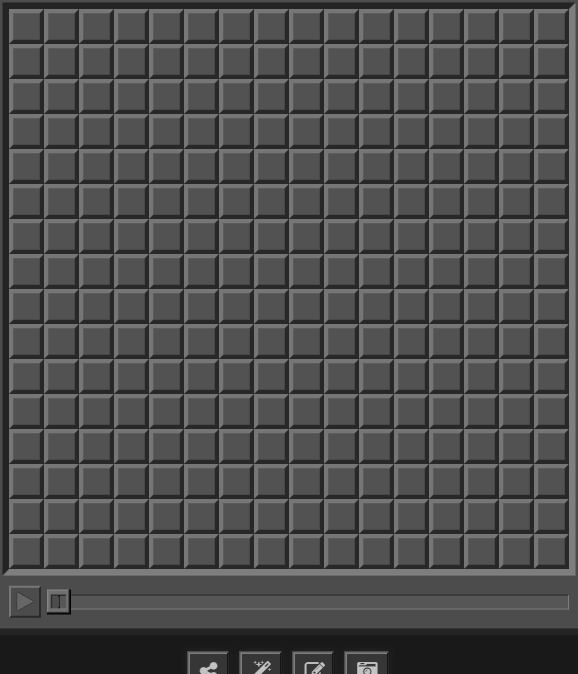
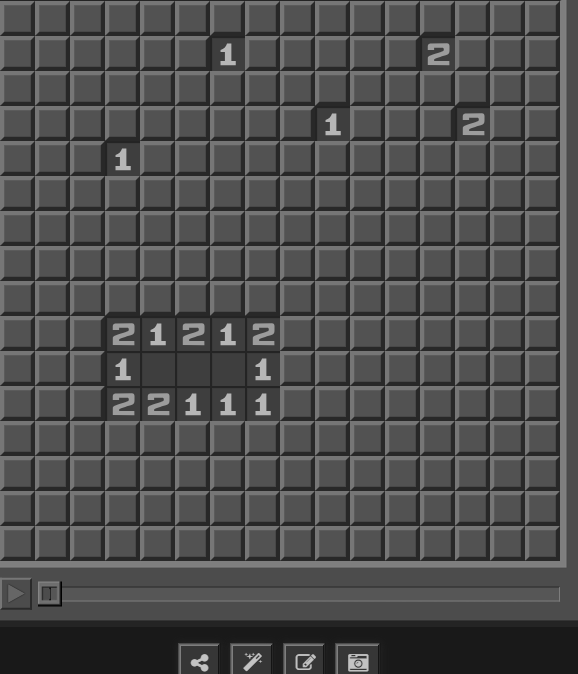
wip

diff --git a/solver.py b/solver.py
@@ -4,7 +4,7 @@ from pywinauto import Desktop
 import cv2
 import numpy as np
 
-top_left = (0,0)
+top_left = (610,450)
 top_right = (0,0)
 bottom_left = (0,0)
 bottom_right = (0,0)
@@ -41,8 +41,8 @@ def mouse_move(x, y):
     # Simulate mouse click at the center of the detected region
     pyautogui.moveTo(x, y, duration=0)  # Move mouse with a slight delay
     
-def mouse_click_random(top_left, bottom_right):
-    top_left = (top_left[0] - 9, top_left[1] - 100 - 6)
+def mouse_click_random():
+    global top_left
     print(top_left[0], top_left[1])
     for i in range(5):
         x_init = top_left[0] + 17.5
@@ -53,9 +53,8 @@ def mouse_click_random(top_left, bottom_right):
         x = random_between(x_init, x_end)
         y = random_between(y_start, y_end)
         print(x,y)
-        # Simulate mouse click at the center of the detected region
-        pyautogui.moveTo(x,y, duration=0)  # Move mouse with a slight delay
-        pyautogui.click()  # Perform left-click
+        pyautogui.moveTo(x,y, duration=0)
+        pyautogui.click()
         take_screenshot()
         reset_if_dead()
    
@@ -69,6 +68,7 @@ def random_between(a, b):
     return random.randint(a, b) 
         
 def template_matching():
+    global top_left
     screenshot = cv2.imread("screenshot.png", cv2.IMREAD_GRAYSCALE)
     template = cv2.imread("template_intermediate.png", cv2.IMREAD_GRAYSCALE)
 
@@ -82,19 +82,19 @@ def template_matching():
         min_val, max_val, min_loc, max_loc = cv2.minMaxLoc(result)
 
         # Extract the top-left corner of the matching region
-        top_left = max_loc
+        # top_left = max_loc
+        print(f"maxloc {max_loc}")
         h, w = template.shape  # Template dimensions
         bottom_right = (top_left[0] + w, top_left[1] + h)
 
         # Draw a rectangle around the detected area
         screenshot_with_box = cv2.cvtColor(screenshot, cv2.COLOR_GRAY2BGR)
         cv2.rectangle(screenshot_with_box, top_left, bottom_right, (0, 255, 0), 2)
-        top_left = (top_left[0] + 18, top_left[1] + 114)
-        top_right = (top_left[0] + 18 + 560, top_left[1] + 114)
-        bottom_left = (top_left[0] + 18, top_left[1] + 114 + 560)
+        # top_left = (top_left[0] + 18, top_left[1] + 114)
+        print(f"Top left: {top_left}")
         bottom_right = (top_left[0] + 18 + 560, top_left[1] + 114 + 560)
         
-        mouse_click_random((top_left[0] + 18, top_left[1] + 114), (top_left[0] + 18 + 560, top_left[1] + 114 + 560))
+        mouse_click_random()
         # Crop the detected region
         cropped_region = screenshot[top_left[1]:bottom_right[1], top_left[0]:bottom_right[0]]
 
@@ -141,6 +141,176 @@ def reset_if_dead():
             return True
         return False
 
-take_screenshot()
-template_matching()
+# grid
+def right_click(row,col):
+    # 0,0 = +16, +16 (mid)
+    # 1,1 = +16+35, +16+35
+    # 2,0 = +16, +16 + 70
+    x = top_left[0] + 16 + 35*row
+    y = top_left[1] + 16 + 35*col
+    pyautogui.moveTo(x, y, duration=0)  # Move mouse with a slight delay
+    pyautogui.rightClick()  # Perform left-click
+    
+# take_screenshot()
+# template_matching()
 # reset_if_dead()
+grid = [[0] * 16 for _ in range(16)]
+
+# def read_values():
+#     coordinates = top_left
+#     mid_point = 
+    
+def take_single_box(x,y):
+    # Get window coordinates
+    region = (x-10,y-10,35,35)
+    # Take a screenshot of the application window
+    screenshot = pyautogui.screenshot(region=region)
+
+    # Convert to NumPy array and OpenCV format
+    screenshot_np = np.array(screenshot)
+    screenshot_bgr = cv2.cvtColor(screenshot_np, cv2.COLOR_RGB2BGR)
+
+    # Display and save the screenshot
+    # cv2.imshow("Application Screenshot", screenshot_bgr)
+    cv2.imwrite("box.png", screenshot_bgr)
+    # cv2.waitKey(0)
+    # cv2.destroyAllWindows()
+    
+def read_grid():
+    for i in range(16):
+        for j in range(16):
+            # Get window coordinates
+            region = (top_left[0]-8+(35*j),top_left[1]-8+(35*i),35,35)
+            screenshot = pyautogui.screenshot(region=region)
+
+            # Convert to NumPy array and OpenCV format
+            screenshot_np = np.array(screenshot)
+            screenshot_bgr = cv2.cvtColor(screenshot_np, cv2.COLOR_RGB2BGR)
+            cv2.imwrite("box.png", screenshot_bgr)
+            box_value = get_value()
+            print(f"{str(box_value).rjust(2)} ", end="")
+            grid[i][j] = box_value
+        print()
+
+def get_value(threshold=0.9):
+    
+    for image in [
+        ("1.png", 1),
+        ("2.png", 2),
+        ("3.png", 3),
+        ("4.png", 4),
+        ("5.png", 5),
+        ("none.png", 0),
+        ("unknown.png", 99),
+    ]:
+        template = cv2.imread(f"resources/{image[0]}")
+        screenshot = cv2.imread("box.png")
+
+        # Perform template matching
+        result = cv2.matchTemplate(screenshot, template, cv2.TM_CCOEFF_NORMED)
+
+        # Get the max value of the result to determine the best match
+        min_val, max_val, min_loc, max_loc = cv2.minMaxLoc(result)
+
+        # If the max value is above the threshold, it's considered a match
+        if max_val >= threshold:
+            return image[1]
+
+def get_value_cuda(threshold=0.9):
+    
+    for image in [
+        ("1.png", 1),
+        ("2.png", 2),
+        ("3.png", 3),
+        ("4.png", 4),
+        ("5.png", 5),
+        ("none.png", 0),
+        ("unknown.png", 99),
+    ]:
+        screenshot = cv2.imread("box.png")
+        template = cv2.imread(f"resources/{image[0]}")
+        
+        # Upload images to the GPU
+        gpu_screenshot = cv2.cuda_GpuMat()
+        gpu_template = cv2.cuda_GpuMat()
+        gpu_screenshot.upload(screenshot)
+        gpu_template.upload(template)
+
+        # Perform template matching using the GPU
+        result_gpu = cv2.cuda.createTemplateMatch(cv2.CV_32F, gpu_template)
+        result_gpu = cv2.cuda.matchTemplate(gpu_screenshot, gpu_template, cv2.TM_CCOEFF_NORMED)
+
+        # Download the result back to CPU memory
+        result = result_gpu.download()
+
+        # Get the max value of the result to determine the best match
+        min_val, max_val, min_loc, max_loc = cv2.minMaxLoc(result)
+
+        # If the max value is above the threshold, it's considered a match
+        if max_val >= threshold:
+            return image[1]
+
+# read_grid()
+grid = [
+        [99, 1, 0, 1, 99, 1, 0, 0, 0, 0, 1, 99, 99, 99, 99, 99], 
+        [1, 1, 0, 1, 99, 1, 0, 0, 0, 0, 1, 1, 1, 2, 99, 99], 
+        [0, 0, 0, 1, 1, 1, 0, 0, 0, 0, 0, 0, 0, 2, 99, 99], 
+        [0, 0, 0, 0, 0, 0, 0, 0, 0, 0, 0, 1, 1, 2, 99, 99], 
+        [0, 0, 0, 0, 0, 0, 0, 0, 0, 1, 1, 2, 99, 99, 99, 99], 
+        [0, 0, 1, 1, 1, 0, 0, 0, 0, 1, 99, 99, 99, 99, 99, 99], 
+        [2, 2, 2, 99, 1, 0, 0, 0, 0, 1, 99, 99, 99, 99, 99, 99],
+        [99, 99, 99, 99, 2, 0, 0, 0, 0, 1, 99, 99, 99, 99, 99, 99],
+        [99, 99, 99, 99, 1, 0, 0, 0, 1, 2, 99, 99, 99, 99, 99, 99],
+        [99, 99, 99, 99, 2, 1, 0, 0, 1, 99, 99, 99, 99, 99, 99, 99],
+        [99, 99, 99, 99, 99, 1, 0, 0, 1, 1, 2, 99, 99, 99, 99, 99],
+        [99, 99, 99, 99, 99, 1, 0, 0, 0, 0, 1, 99, 99, 99, 99, 99],
+        [99, 99, 99, 99, 99, 1, 2, 2, 2, 2, 3, 99, 99, 99, 99, 99],
+        [99, 99, 99, 99, 99, 99, 99, 99, 99, 99, 99, 99, 99, 99, 99, 99],
+        [99, 99, 99, 99, 99, 99, 99, 99, 99, 99, 99, 99, 99, 99, 99, 99],
+        [99, 99, 99, 99, 99, 99, 99, 99, 99, 99, 99, 99, 99, 99, 99, 99]
+    ]
+print(grid)
+for i in range(1,14):
+    for j in range(1,14):
+        # [99,1,0]
+        # [1,1,0]
+        # [0,0,0]
+        if grid[i-1][j-1] == 99:
+            if grid[i][j] == 1 and grid[i][j-1] == 1 and grid[i-1][j] == 1:
+                if grid[i-1][j+1] == 0 and grid[i][j+1] == 0 and grid[i+1][j+1] == 0 and grid[i+1][j] == 0 and grid[i+1][j+1] == 0:
+                    print(grid[i][j])
+                    grid[i-1][j-1] = 'f'
+                    right_click(j-1,i-1)
+        # [0,1,99]
+        # [0,1,1]
+        # [0,0,0]
+        if grid[i-1][j+1] == 99:
+            if grid[i][j] == 1 and grid[i-1][j] == 1 and grid[i][j+1] == 1:
+                    if grid[i-1][j-1] == 0 and grid[i][j-1] == 0 and grid[i+1][j-1] == 0 and grid[i+1][j] == 0 and grid[i+1][j+1] == 0:
+                        print(grid[i][j])
+                        grid[i-1][j+1] = 'f'
+                        right_click(j+1,i-1)
+        # [0,0,0]
+        # [1,1,0]
+        # [99,1,0]
+        if grid[i+1][j-1] == 99:
+            if grid[i][j-1] == 1 and grid[i][j] == 1 and grid[i+1][j] == 1:
+                    if grid[i-1][j-1] == 0 and grid[i-1][j] == 0 and grid[i-1][j+1] == 0 and grid[i][j+1] == 0 and grid[i+1][j+1] == 0:
+                        print(grid[i][j])
+                        grid[i+1][j-1] = 'f'
+                        right_click(j-1,i+1)
+        # [1,0,0]
+        # [2,1,0]
+        # [99,1,0]         
+        if grid[i+1][j-1] == 99:
+            if grid[i][j] == 1 and grid[i+1][j] == 1:
+                    if grid[i-1][j] == 0 and grid[i-1][j+1] == 0 and grid[i][j+1] == 0 and grid[i+1][j+1] == 0:
+                        print(grid[i][j])
+                        grid[i+1][j-1] = 'f'
+                        right_click(j-1,i+1)
+                    
+            
+
+
+
+    
